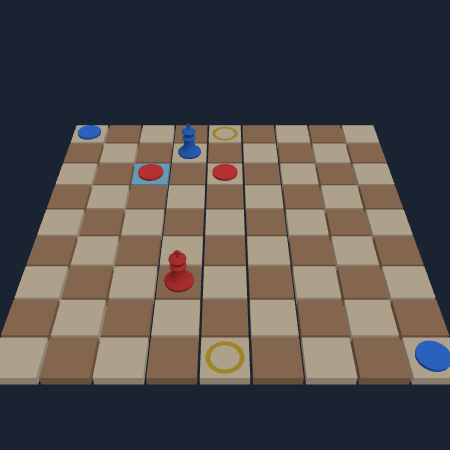
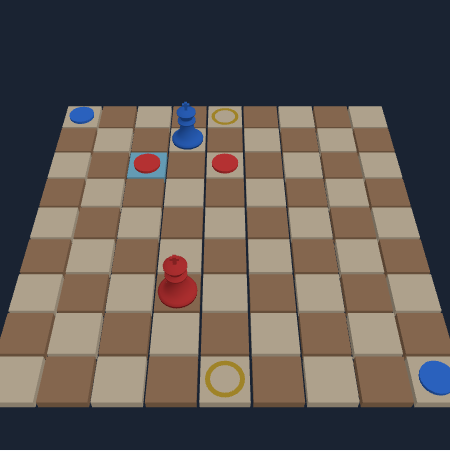
feat(mp3d): ~30% bigger 3D kings + slightly closer camera
- KING_SCALE = 1.3 applied to the lathe profile and cross finial (max radius
  0.442, still inside a 1.0 cell).
- Camera (0, 10, 11.5) -> (0, 10.9, 9.8): ~4% closer and a touch steeper so a
  bigger king near the camera does not hide the tile behind it (e2e 3D clicks
  still land).
- Unit test for the scale; regenerated start/midgame 3D screenshots.

diff --git a/src/ui/three/kings-quadraphages-pieces.ts b/src/ui/three/kings-quadraphages-pieces.ts
@@ -11,7 +11,13 @@ type Group = InstanceType<Three['Group']>;
 type Material = InstanceType<Three['Material']>;
 type DisposableGeo = { dispose: () => void };
 
-/** Lathe profile as [radius, y] in cell units (1 cell = 1.0). */
+/**
+ * Uniform size multiplier for the 3D kings (~30% bigger than the original
+ * 0.34-radius / 0.97-tall silhouette). Max radius 0.442 still fits a 1.0 cell.
+ */
+export const KING_SCALE = 1.3;
+
+/** Lathe profile as [radius, y] in cell units (1 cell = 1.0), before KING_SCALE. */
 export const KING_LATHE_PROFILE: ReadonlyArray<readonly [number, number]> = [
   [0.0, 0.0],
   [0.34, 0.0],
@@ -38,13 +44,14 @@ export interface KingGeometries {
 }
 
 export function createKingGeometries(THREE: Three): KingGeometries {
+  const k = KING_SCALE;
   const points = KING_LATHE_PROFILE.map(
-    ([radius, y]) => new THREE.Vector2(radius, y)
+    ([radius, y]) => new THREE.Vector2(radius * k, y * k)
   );
   return {
     body: new THREE.LatheGeometry(points, 32),
-    crossV: new THREE.BoxGeometry(0.06, 0.18, 0.06),
-    crossH: new THREE.BoxGeometry(0.15, 0.05, 0.06),
+    crossV: new THREE.BoxGeometry(0.06 * k, 0.18 * k, 0.06 * k),
+    crossH: new THREE.BoxGeometry(0.15 * k, 0.05 * k, 0.06 * k),
   };
 }
 
@@ -74,9 +81,9 @@ export function assembleKingGroup(
   // Geometries are created by the matching THREE constructors above.
   const body = new THREE.Mesh(geos.body as never, material);
   const crossV = new THREE.Mesh(geos.crossV as never, material);
-  crossV.position.y = 0.89;
+  crossV.position.y = 0.89 * KING_SCALE;
   const crossH = new THREE.Mesh(geos.crossH as never, material);
-  crossH.position.y = 0.92;
+  crossH.position.y = 0.92 * KING_SCALE;
   group.add(body);
   group.add(crossV);
   group.add(crossH);

diff --git a/tests/unit/mp3d-kings-quadraphages-pieces.test.ts b/tests/unit/mp3d-kings-quadraphages-pieces.test.ts
@@ -5,6 +5,7 @@ import {
   disposeKingGeometries,
   assembleKingGroup,
   KING_LATHE_PROFILE,
+  KING_SCALE,
 } from '../../src/ui/three/kings-quadraphages-pieces';
 
 function fakeThree() {
@@ -113,5 +114,19 @@ describe('mp3d Kings & Quadraphages piece geometries', () => {
       kind: 'king',
       owner: 'player1',
     });
+  });
+
+  it('scales the king silhouette ~30% bigger and keeps it inside one cell', () => {
+    const THREE = fakeThree();
+    expect(KING_SCALE).toBeCloseTo(1.3);
+    const geos = createKingGeometries(THREE as never);
+    const pts = (geos.body as InstanceType<typeof THREE.LatheGeometry>).points;
+    const maxR = Math.max(...pts.map((p) => p.x));
+    const maxY = Math.max(...pts.map((p) => p.y));
+    expect(maxR).toBeCloseTo(0.34 * 1.3);
+    expect(maxY).toBeCloseTo(0.8 * 1.3);
+    expect(maxR).toBeLessThan(0.5);
+    const crossV = geos.crossV as InstanceType<typeof THREE.BoxGeometry>;
+    expect(crossV.h).toBeCloseTo(0.18 * 1.3);
   });
 });

diff --git a/src/ui/three/kings-quadraphages-board-3d.ts b/src/ui/three/kings-quadraphages-board-3d.ts
@@ -92,7 +92,9 @@ export async function createKingsQuadraphagesBoard3D(
   scene.background = new THREE.Color(0x1a2332);
 
   const camera = new THREE.PerspectiveCamera(42, 1, 0.1, 100);
-  camera.position.set(0, 10, 11.5);
+  // ~4% closer than the original (0, 10, 11.5) and a touch steeper, so the
+  // bigger kings read well without hiding the tile behind them.
+  camera.position.set(0, 10.9, 9.8);
   camera.lookAt(0, 0, 0);
 
   const renderer = new THREE.WebGLRenderer({ antialias: true, alpha: false });
